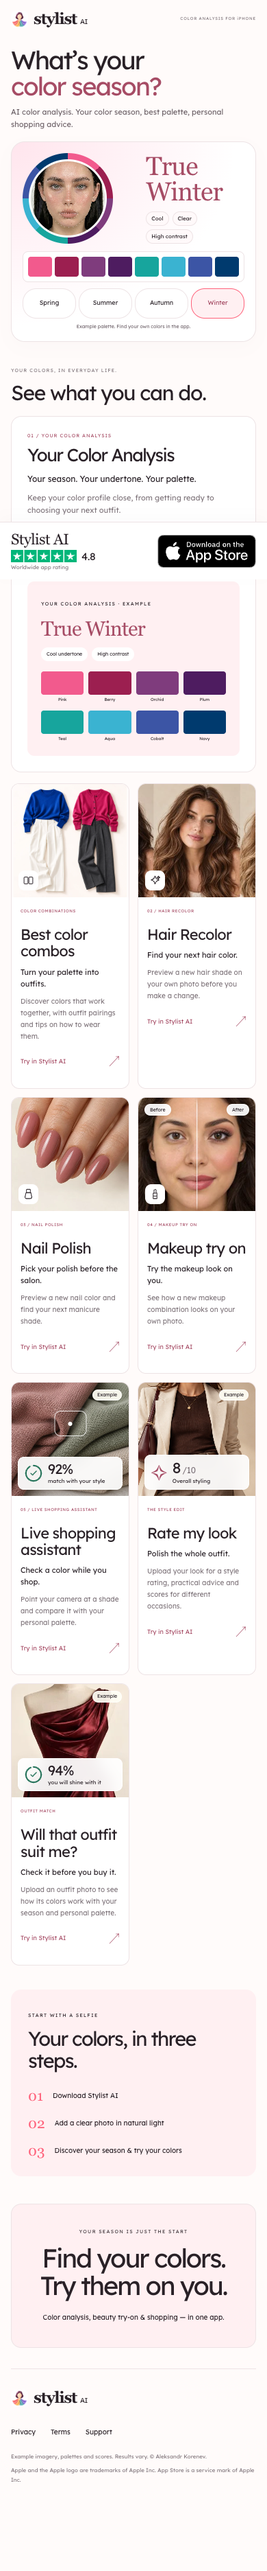
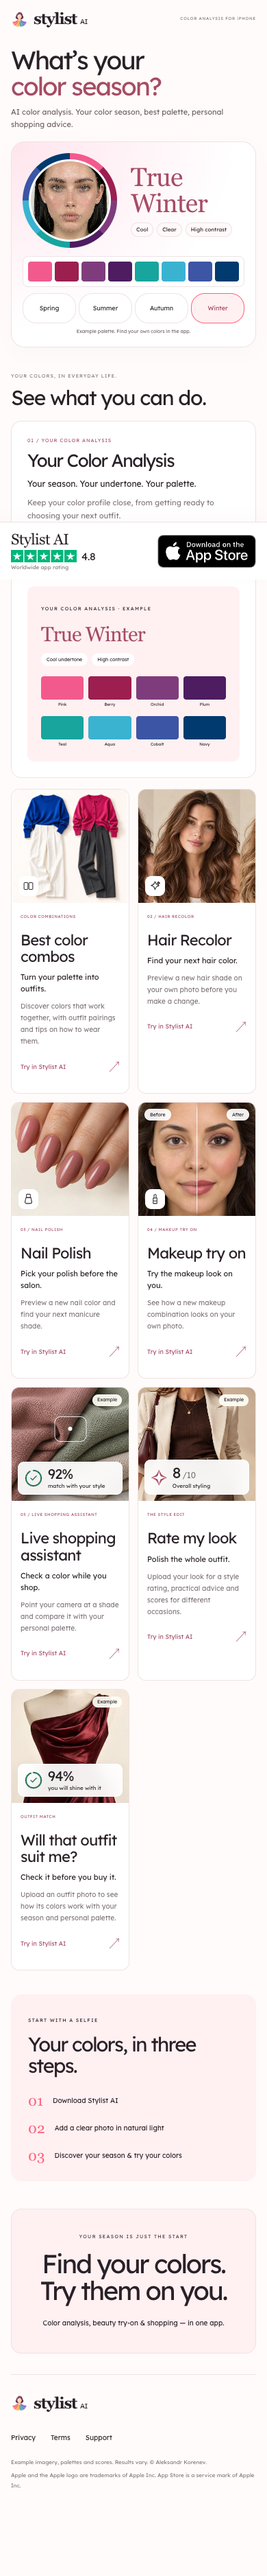
Fix iPhone portrait growth during browser toolbar resizing

diff --git a/stylist_ai/index.html b/stylist_ai/index.html
@@ -1,3 +1,3 @@
 <!doctype html><html lang="en"><head>
-<meta charset="utf-8"><meta name="viewport" content="width=device-width,initial-scale=1,viewport-fit=cover"><meta name="theme-color" content="#FFFBFA"><title>Find your color season — Stylist AI</title><meta name="description" content="Discover your color season and palette. Try hair and makeup looks, recolor nails, and take your palette shopping with Stylist AI for iPhone."><meta property="og:title" content="Your season. Your palette. Stylist AI."><meta property="og:description" content="Your Color Analysis, color combos, beauty tools, outfit advice & live shopping. Find your colors with Stylist AI."><meta property="og:type" content="website"><meta property="og:image" content="https://bestme.mobi/stylist_ai/landing/v2/assets/social-spectrum.jpg"><link rel="icon" href="/stylist_ai/landing/v2/assets/icon.png"><link rel="stylesheet" href="/stylist_ai/landing/v2/styles.css?v=2"><script src="/stylist_ai/landing/v2/app.js?v=3" defer></script><link rel="stylesheet" href="/stylist_ai/landing/v2/04-season-spectrum/spectrum.css?v=10"><link rel="canonical" href="https://bestme.mobi/stylist_ai/"><meta property="og:url" content="https://bestme.mobi/stylist_ai/"></head>
+<meta charset="utf-8"><meta name="viewport" content="width=device-width,initial-scale=1,viewport-fit=cover"><meta name="theme-color" content="#FFFBFA"><title>Find your color season — Stylist AI</title><meta name="description" content="Discover your color season and palette. Try hair and makeup looks, recolor nails, and take your palette shopping with Stylist AI for iPhone."><meta property="og:title" content="Your season. Your palette. Stylist AI."><meta property="og:description" content="Your Color Analysis, color combos, beauty tools, outfit advice & live shopping. Find your colors with Stylist AI."><meta property="og:type" content="website"><meta property="og:image" content="https://bestme.mobi/stylist_ai/landing/v2/assets/social-spectrum.jpg"><link rel="icon" href="/stylist_ai/landing/v2/assets/icon.png"><link rel="stylesheet" href="/stylist_ai/landing/v2/styles.css?v=2"><script src="/stylist_ai/landing/v2/app.js?v=3" defer></script><link rel="stylesheet" href="/stylist_ai/landing/v2/04-season-spectrum/spectrum.css?v=11"><link rel="canonical" href="https://bestme.mobi/stylist_ai/"><meta property="og:url" content="https://bestme.mobi/stylist_ai/"></head>
 <body class="spectrum" data-variant="04-season-spectrum" id="top"><a class="skip" href="#main">Skip to content</a><header class="site-header container"><a class="brand" href="#top" aria-label="Stylist AI home"><img src="/stylist_ai/landing/v2/assets/icon.png" width="28" height="28" alt=""><span>stylist <b>AI</b></span></a><span class="header-caption">COLOR ANALYSIS FOR iPHONE</span></header><main id="main"><section class="hero container" aria-label="Discover your color season"><div class="hero-intro"><h1>What’s your<br><em>color season?</em></h1><p>AI color analysis. Your color season, best palette, personal shopping advice.</p></div><div class="hero-proof"><div class="result-card"><div class="spectrum-pair"><div class="color-halo"><div class="face-photo"><img class="portrait" src="/stylist_ai/landing/v2/assets/winter-model.jpg" width="834" height="1482" alt="Stylist AI ad model with subtle glowing facial landmark dots" fetchpriority="high"><img class="mesh" src="/stylist_ai/landing/v2/assets/winter-landmarks.svg" width="834" height="1482" alt="" aria-hidden="true"></div></div><div class="season-result"><strong data-season-result>True Winter</strong><p class="traits"><span>Cool</span><span>Clear</span><span>High contrast</span></p></div></div><div class="palette hero-palette" data-first-palette aria-label="Sample True Winter color palette"><div class="color" style="--color:#F25A8D" title="Pink"><i></i></div><div class="color" style="--color:#9C1F50" title="Berry"><i></i></div><div class="color" style="--color:#7F3C7D" title="Orchid"><i></i></div><div class="color" style="--color:#4E1C60" title="Plum"><i></i></div><div class="color" style="--color:#17A59D" title="Teal"><i></i></div><div class="color" style="--color:#3AB3D1" title="Aqua"><i></i></div><div class="color" style="--color:#3C55A5" title="Cobalt"><i></i></div><div class="color" style="--color:#003A6E" title="Navy"><i></i></div></div><div class="season-tabs" role="group" aria-label="Preview example seasonal palettes"><button type="button" data-season="spring" aria-pressed="false">Spring</button><button type="button" data-season="summer" aria-pressed="false">Summer</button><button type="button" data-season="autumn" aria-pressed="false">Autumn</button><button type="button" data-season="winter" aria-pressed="true">Winter</button></div><span class="sample-disclaimer">Example palette. Find your own colors in the app.</span></div></div></section><section class="features container" id="features"><div class="section-heading"><span class="micro">YOUR COLORS, IN EVERYDAY LIFE.</span><h2>See what you can do.</h2></div><article id="passport" class="passport-feature" data-feature="passport"><div class="passport-feature-copy"><p class="number">01 / YOUR COLOR ANALYSIS</p><h3>Your Color Analysis</h3><p class="benefit">Your season. Your undertone. Your palette.</p><p>Keep your color profile close, from getting ready to choosing your next outfit.</p><ul><li>Your seasonal color type</li><li>Your personal palette</li><li>Color guidance for your look</li></ul></div><div class="passport-feature-art"><span class="micro">YOUR COLOR ANALYSIS · EXAMPLE</span><strong>True Winter</strong><div class="attribute-row"><span>Cool undertone</span><span>High contrast</span></div><div class="palette " aria-label="Sample True Winter color palette"><div class="color" style="--color:#F25A8D" title="Pink"><i></i><span>Pink</span></div><div class="color" style="--color:#9C1F50" title="Berry"><i></i><span>Berry</span></div><div class="color" style="--color:#7F3C7D" title="Orchid"><i></i><span>Orchid</span></div><div class="color" style="--color:#4E1C60" title="Plum"><i></i><span>Plum</span></div><div class="color" style="--color:#17A59D" title="Teal"><i></i><span>Teal</span></div><div class="color" style="--color:#3AB3D1" title="Aqua"><i></i><span>Aqua</span></div><div class="color" style="--color:#3C55A5" title="Cobalt"><i></i><span>Cobalt</span></div><div class="color" style="--color:#003A6E" title="Navy"><i></i><span>Navy</span></div></div></div></article><div class="feature-grid"><article class="feature-card" id="combos" data-feature="combos"><div class="feature-image"><img src="/stylist_ai/landing/v2/assets/color-combos-ai.webp" width="960" height="960" loading="lazy" alt="Cobalt blue with icy white and raspberry pink with charcoal: two coordinated outfit color pairings"><span class="feature-image-icon"><svg viewBox="0 0 24 24" fill="none" stroke="currentColor" stroke-width="1.4" stroke-linecap="round" stroke-linejoin="round" aria-hidden="true"><rect x="3" y="5" width="8" height="14" rx="2"/><rect x="13" y="5" width="8" height="14" rx="2"/></svg></span></div><div class="feature-copy"><p class="number">COLOR COMBINATIONS</p><h3>Best color combos</h3><p class="benefit">Turn your palette into outfits.</p><p>Discover colors that work together, with outfit pairings and tips on how to wear them.</p><a href="https://apps.apple.com/app/id6739435502" target="_top" data-download data-placement="combos">Try in Stylist AI <span aria-hidden="true">↗</span></a></div></article><article class="feature-card" id="try-on" data-feature="try-on"><div class="feature-image"><img src="/stylist_ai/landing/v2/assets/hair.webp" width="720" height="900" loading="lazy" alt="Hair Recolor example"><span class="feature-image-icon"><svg viewBox="0 0 24 24" fill="none" stroke="currentColor" stroke-width="1.5" stroke-linecap="round" stroke-linejoin="round" aria-hidden="true"><path d="m12 3 2.6 5.4L20 11l-5.4 2.6L12 19l-2.6-5.4L4 11l5.4-2.6Z"/><path d="m19 3 1 2 2 1-2 1-1 2-1-2-2-1 2-1Z"/></svg></span></div><div class="feature-copy"><p class="number">02 / HAIR RECOLOR</p><h3>Hair Recolor</h3><p class="benefit">Find your next hair color.</p><p>Preview a new hair shade on your own photo before you make a change.</p><a href="https://apps.apple.com/app/id6739435502" target="_top" data-download data-placement="try-on">Try in Stylist AI <span aria-hidden="true">↗</span></a></div></article><article class="feature-card" id="nails" data-feature="nails"><div class="feature-image"><img src="/stylist_ai/landing/v2/assets/nails.webp" width="720" height="900" loading="lazy" alt="Nail Polish example"><span class="feature-image-icon"><svg viewBox="0 0 24 24" fill="none" stroke="currentColor" stroke-width="1.5" stroke-linecap="round" stroke-linejoin="round" aria-hidden="true"><rect x="8" y="2" width="8" height="7" rx="1"/><path d="M7 9h10l2 9a3 3 0 0 1-3 3H8a3 3 0 0 1-3-3Z"/></svg></span></div><div class="feature-copy"><p class="number">03 / NAIL POLISH</p><h3>Nail Polish</h3><p class="benefit">Pick your polish before the salon.</p><p>Preview a new nail color and find your next manicure shade.</p><a href="https://apps.apple.com/app/id6739435502" target="_top" data-download data-placement="nails">Try in Stylist AI <span aria-hidden="true">↗</span></a></div></article><article class="feature-card" id="makeup" data-feature="makeup"><div class="feature-image"><img src="/stylist_ai/landing/v2/assets/makeup-try-on.webp" width="720" height="900" loading="lazy" alt="Before and after makeup try on example"><span class="feature-image-icon"><svg viewBox="0 0 24 24" fill="none" stroke="currentColor" stroke-width="1.5" stroke-linecap="round" stroke-linejoin="round" aria-hidden="true"><path d="M8 10h8v11H8zM10 10V4c0-1 4-3 4-1v7M8 16h8"/></svg></span><span class="makeup-divider" aria-hidden="true"></span><span class="makeup-label before">Before</span><span class="makeup-label after">After</span></div><div class="feature-copy"><p class="number">04 / MAKEUP TRY ON</p><h3>Makeup try on</h3><p class="benefit">Try the makeup look on you.</p><p>See how a new makeup combination looks on your own photo.</p><a href="https://apps.apple.com/app/id6739435502" target="_top" data-download data-placement="makeup">Try in Stylist AI <span aria-hidden="true">↗</span></a></div></article><article class="feature-card" id="shopping" data-feature="shopping"><div class="feature-image"><img src="/stylist_ai/landing/v2/assets/shopping-fabric.jpg" width="720" height="900" loading="lazy" alt="Live shopping assistant example"><span class="shopping-scan" aria-hidden="true"><i></i></span><span class="art-example">Example</span><div class="match-overlay"><svg viewBox="0 0 40 40" aria-hidden="true"><circle cx="20" cy="20" r="16" fill="none" stroke="#e8efeb" stroke-width="3"/><circle cx="20" cy="20" r="16" fill="none" stroke="#28755c" stroke-width="3" stroke-linecap="round" stroke-dasharray="92 100" pathLength="100" transform="rotate(-90 20 20)"/><path d="m14 20 4 4 8-9" fill="none" stroke="#28755c" stroke-width="2" stroke-linecap="round" stroke-linejoin="round"/></svg><span><strong>92%</strong><small>match with your style</small></span></div></div><div class="feature-copy"><p class="number">05 / LIVE SHOPPING ASSISTANT</p><h3>Live shopping assistant</h3><p class="benefit">Check a color while you shop.</p><p>Point your camera at a shade and compare it with your personal palette.</p><a href="https://apps.apple.com/app/id6739435502" target="_top" data-download data-placement="shopping">Try in Stylist AI <span aria-hidden="true">↗</span></a></div></article><article class="feature-card" id="rate-look" data-feature="rate-look"><div class="feature-image"><img src="/stylist_ai/landing/v2/assets/rate-look.jpg" loading="lazy" alt="Rate my look preview"><span class="art-example">Example</span><div class="look-rating"><span class="rating-star" aria-hidden="true">✧</span><span><strong>8<small>/10</small></strong><small>Overall styling</small></span></div></div><div class="feature-copy"><p class="number">THE STYLE EDIT</p><h3>Rate my look</h3><p class="benefit">Polish the whole outfit.</p><p>Upload your look for a style rating, practical advice and scores for different occasions.</p><a href="https://apps.apple.com/app/id6739435502" target="_top" data-download data-placement="rate-look">Try in Stylist AI <span aria-hidden="true">↗</span></a></div></article><article class="feature-card" id="outfit-match" data-feature="outfit-match"><div class="feature-image"><img src="/stylist_ai/landing/v2/assets/outfit.webp" loading="lazy" alt="Will that outfit suit me? preview"><span class="art-example">Example</span><div class="match-overlay"><svg viewBox="0 0 40 40" aria-hidden="true"><circle cx="20" cy="20" r="16" fill="none" stroke="#e8efeb" stroke-width="3"/><circle cx="20" cy="20" r="16" fill="none" stroke="#28755c" stroke-width="3" stroke-linecap="round" stroke-dasharray="94 100" pathLength="100" transform="rotate(-90 20 20)"/><path d="m14 20 4 4 8-9" fill="none" stroke="#28755c" stroke-width="2" stroke-linecap="round" stroke-linejoin="round"/></svg><span><strong>94%</strong><small>you will shine with it</small></span></div></div><div class="feature-copy"><p class="number">OUTFIT MATCH</p><h3>Will that outfit suit me?</h3><p class="benefit">Check it before you buy it.</p><p>Upload an outfit photo to see how its colors work with your season and personal palette.</p><a href="https://apps.apple.com/app/id6739435502" target="_top" data-download data-placement="outfit-match">Try in Stylist AI <span aria-hidden="true">↗</span></a></div></article></div></section><section class="how container"><div><span class="micro">START WITH A SELFIE</span><h2>Your colors, in three steps.</h2></div><ol><li><b>01</b><span>Download Stylist AI</span></li><li><b>02</b><span>Add a clear photo in natural light</span></li><li><b>03</b><span>Discover your season & try your colors</span></li></ol></section><section class="closing container"><p class="micro">YOUR SEASON IS JUST THE START</p><h2>Find your colors.<br>Try them on you.</h2><p>Color analysis, beauty try-on & shopping — in one app.</p></section></main><footer class="container"><a class="brand" href="#top" aria-label="Stylist AI home"><img src="/stylist_ai/landing/v2/assets/icon.png" width="28" height="28" alt=""><span>stylist <b>AI</b></span></a><div class="legal-links"><a href="https://bestme.mobi/stylist-ai-privacy-policy.html">Privacy</a><a href="https://bestme.mobi/stylist-ai-terms-of-use.html">Terms</a><a href="https://bestme.mobi/support.html">Support</a></div><p>Example imagery, palettes and scores. Results vary. © Aleksandr Korenev.</p><p>Apple and the Apple logo are trademarks of Apple Inc. App Store is a service mark of Apple Inc.</p></footer><aside class="download-dock" aria-label="Download Stylist AI"><div class="dock-inner"><div class="dock-copy"><strong>Stylist AI</strong><span class="dock-rating" aria-label="4.8 out of 5"><img class="dock-stars" src="/stylist_ai/landing/v2/assets/rating-stars.svg" width="96" height="18" alt="" aria-hidden="true"><b class="dock-score">4.8</b></span><span class="dock-rating-label">Worldwide app rating</span></div><a class="app-store" href="https://apps.apple.com/app/id6739435502" target="_top" data-download data-placement="sticky" aria-label="Download Stylist AI on the App Store"><img src="/stylist_ai/landing/v2/assets/app-store.svg" width="150" height="50" alt="Download on the App Store"></a></div></aside></body></html>

diff --git a/stylist_ai/landing/v2/04-season-spectrum/index.html b/stylist_ai/landing/v2/04-season-spectrum/index.html
@@ -1,3 +1,3 @@
 <!doctype html><html lang="en"><head>
-<meta charset="utf-8"><meta name="viewport" content="width=device-width,initial-scale=1,viewport-fit=cover"><meta name="theme-color" content="#FFFBFA"><title>Find your color season — Stylist AI</title><meta name="description" content="Discover your color season and palette. Try hair and makeup looks, recolor nails, and take your palette shopping with Stylist AI for iPhone."><meta property="og:title" content="Your season. Your palette. Stylist AI."><meta property="og:description" content="Your Color Analysis, color combos, beauty tools, outfit advice & live shopping. Find your colors with Stylist AI."><meta property="og:type" content="website"><meta property="og:image" content="https://bestme.mobi/stylist_ai/landing/v2/assets/social-spectrum.jpg"><link rel="icon" href="../assets/icon.png"><link rel="stylesheet" href="../styles.css?v=2"><script src="../app.js?v=3" defer></script><link rel="stylesheet" href="./spectrum.css?v=10"></head>
+<meta charset="utf-8"><meta name="viewport" content="width=device-width,initial-scale=1,viewport-fit=cover"><meta name="theme-color" content="#FFFBFA"><title>Find your color season — Stylist AI</title><meta name="description" content="Discover your color season and palette. Try hair and makeup looks, recolor nails, and take your palette shopping with Stylist AI for iPhone."><meta property="og:title" content="Your season. Your palette. Stylist AI."><meta property="og:description" content="Your Color Analysis, color combos, beauty tools, outfit advice & live shopping. Find your colors with Stylist AI."><meta property="og:type" content="website"><meta property="og:image" content="https://bestme.mobi/stylist_ai/landing/v2/assets/social-spectrum.jpg"><link rel="icon" href="../assets/icon.png"><link rel="stylesheet" href="../styles.css?v=2"><script src="../app.js?v=3" defer></script><link rel="stylesheet" href="./spectrum.css?v=11"></head>
 <body class="spectrum" data-variant="04-season-spectrum" id="top"><a class="skip" href="#main">Skip to content</a><header class="site-header container"><a class="brand" href="#top" aria-label="Stylist AI home"><img src="../assets/icon.png" width="28" height="28" alt=""><span>stylist <b>AI</b></span></a><span class="header-caption">COLOR ANALYSIS FOR iPHONE</span></header><main id="main"><section class="hero container" aria-label="Discover your color season"><div class="hero-intro"><h1>What’s your<br><em>color season?</em></h1><p>AI color analysis. Your color season, best palette, personal shopping advice.</p></div><div class="hero-proof"><div class="result-card"><div class="spectrum-pair"><div class="color-halo"><div class="face-photo"><img class="portrait" src="../assets/winter-model.jpg" width="834" height="1482" alt="Stylist AI ad model with subtle glowing facial landmark dots" fetchpriority="high"><img class="mesh" src="../assets/winter-landmarks.svg" width="834" height="1482" alt="" aria-hidden="true"></div></div><div class="season-result"><strong data-season-result>True Winter</strong><p class="traits"><span>Cool</span><span>Clear</span><span>High contrast</span></p></div></div><div class="palette hero-palette" data-first-palette aria-label="Sample True Winter color palette"><div class="color" style="--color:#F25A8D" title="Pink"><i></i></div><div class="color" style="--color:#9C1F50" title="Berry"><i></i></div><div class="color" style="--color:#7F3C7D" title="Orchid"><i></i></div><div class="color" style="--color:#4E1C60" title="Plum"><i></i></div><div class="color" style="--color:#17A59D" title="Teal"><i></i></div><div class="color" style="--color:#3AB3D1" title="Aqua"><i></i></div><div class="color" style="--color:#3C55A5" title="Cobalt"><i></i></div><div class="color" style="--color:#003A6E" title="Navy"><i></i></div></div><div class="season-tabs" role="group" aria-label="Preview example seasonal palettes"><button type="button" data-season="spring" aria-pressed="false">Spring</button><button type="button" data-season="summer" aria-pressed="false">Summer</button><button type="button" data-season="autumn" aria-pressed="false">Autumn</button><button type="button" data-season="winter" aria-pressed="true">Winter</button></div><span class="sample-disclaimer">Example palette. Find your own colors in the app.</span></div></div></section><section class="features container" id="features"><div class="section-heading"><span class="micro">YOUR COLORS, IN EVERYDAY LIFE.</span><h2>See what you can do.</h2></div><article id="passport" class="passport-feature" data-feature="passport"><div class="passport-feature-copy"><p class="number">01 / YOUR COLOR ANALYSIS</p><h3>Your Color Analysis</h3><p class="benefit">Your season. Your undertone. Your palette.</p><p>Keep your color profile close, from getting ready to choosing your next outfit.</p><ul><li>Your seasonal color type</li><li>Your personal palette</li><li>Color guidance for your look</li></ul></div><div class="passport-feature-art"><span class="micro">YOUR COLOR ANALYSIS · EXAMPLE</span><strong>True Winter</strong><div class="attribute-row"><span>Cool undertone</span><span>High contrast</span></div><div class="palette " aria-label="Sample True Winter color palette"><div class="color" style="--color:#F25A8D" title="Pink"><i></i><span>Pink</span></div><div class="color" style="--color:#9C1F50" title="Berry"><i></i><span>Berry</span></div><div class="color" style="--color:#7F3C7D" title="Orchid"><i></i><span>Orchid</span></div><div class="color" style="--color:#4E1C60" title="Plum"><i></i><span>Plum</span></div><div class="color" style="--color:#17A59D" title="Teal"><i></i><span>Teal</span></div><div class="color" style="--color:#3AB3D1" title="Aqua"><i></i><span>Aqua</span></div><div class="color" style="--color:#3C55A5" title="Cobalt"><i></i><span>Cobalt</span></div><div class="color" style="--color:#003A6E" title="Navy"><i></i><span>Navy</span></div></div></div></article><div class="feature-grid"><article class="feature-card" id="combos" data-feature="combos"><div class="feature-image"><img src="../assets/color-combos-ai.webp" width="960" height="960" loading="lazy" alt="Cobalt blue with icy white and raspberry pink with charcoal: two coordinated outfit color pairings"><span class="feature-image-icon"><svg viewBox="0 0 24 24" fill="none" stroke="currentColor" stroke-width="1.4" stroke-linecap="round" stroke-linejoin="round" aria-hidden="true"><rect x="3" y="5" width="8" height="14" rx="2"/><rect x="13" y="5" width="8" height="14" rx="2"/></svg></span></div><div class="feature-copy"><p class="number">COLOR COMBINATIONS</p><h3>Best color combos</h3><p class="benefit">Turn your palette into outfits.</p><p>Discover colors that work together, with outfit pairings and tips on how to wear them.</p><a href="https://apps.apple.com/app/id6739435502" target="_top" data-download data-placement="combos">Try in Stylist AI <span aria-hidden="true">↗</span></a></div></article><article class="feature-card" id="try-on" data-feature="try-on"><div class="feature-image"><img src="../assets/hair.webp" width="720" height="900" loading="lazy" alt="Hair Recolor example"><span class="feature-image-icon"><svg viewBox="0 0 24 24" fill="none" stroke="currentColor" stroke-width="1.5" stroke-linecap="round" stroke-linejoin="round" aria-hidden="true"><path d="m12 3 2.6 5.4L20 11l-5.4 2.6L12 19l-2.6-5.4L4 11l5.4-2.6Z"/><path d="m19 3 1 2 2 1-2 1-1 2-1-2-2-1 2-1Z"/></svg></span></div><div class="feature-copy"><p class="number">02 / HAIR RECOLOR</p><h3>Hair Recolor</h3><p class="benefit">Find your next hair color.</p><p>Preview a new hair shade on your own photo before you make a change.</p><a href="https://apps.apple.com/app/id6739435502" target="_top" data-download data-placement="try-on">Try in Stylist AI <span aria-hidden="true">↗</span></a></div></article><article class="feature-card" id="nails" data-feature="nails"><div class="feature-image"><img src="../assets/nails.webp" width="720" height="900" loading="lazy" alt="Nail Polish example"><span class="feature-image-icon"><svg viewBox="0 0 24 24" fill="none" stroke="currentColor" stroke-width="1.5" stroke-linecap="round" stroke-linejoin="round" aria-hidden="true"><rect x="8" y="2" width="8" height="7" rx="1"/><path d="M7 9h10l2 9a3 3 0 0 1-3 3H8a3 3 0 0 1-3-3Z"/></svg></span></div><div class="feature-copy"><p class="number">03 / NAIL POLISH</p><h3>Nail Polish</h3><p class="benefit">Pick your polish before the salon.</p><p>Preview a new nail color and find your next manicure shade.</p><a href="https://apps.apple.com/app/id6739435502" target="_top" data-download data-placement="nails">Try in Stylist AI <span aria-hidden="true">↗</span></a></div></article><article class="feature-card" id="makeup" data-feature="makeup"><div class="feature-image"><img src="../assets/makeup-try-on.webp" width="720" height="900" loading="lazy" alt="Before and after makeup try on example"><span class="feature-image-icon"><svg viewBox="0 0 24 24" fill="none" stroke="currentColor" stroke-width="1.5" stroke-linecap="round" stroke-linejoin="round" aria-hidden="true"><path d="M8 10h8v11H8zM10 10V4c0-1 4-3 4-1v7M8 16h8"/></svg></span><span class="makeup-divider" aria-hidden="true"></span><span class="makeup-label before">Before</span><span class="makeup-label after">After</span></div><div class="feature-copy"><p class="number">04 / MAKEUP TRY ON</p><h3>Makeup try on</h3><p class="benefit">Try the makeup look on you.</p><p>See how a new makeup combination looks on your own photo.</p><a href="https://apps.apple.com/app/id6739435502" target="_top" data-download data-placement="makeup">Try in Stylist AI <span aria-hidden="true">↗</span></a></div></article><article class="feature-card" id="shopping" data-feature="shopping"><div class="feature-image"><img src="../assets/shopping-fabric.jpg" width="720" height="900" loading="lazy" alt="Live shopping assistant example"><span class="shopping-scan" aria-hidden="true"><i></i></span><span class="art-example">Example</span><div class="match-overlay"><svg viewBox="0 0 40 40" aria-hidden="true"><circle cx="20" cy="20" r="16" fill="none" stroke="#e8efeb" stroke-width="3"/><circle cx="20" cy="20" r="16" fill="none" stroke="#28755c" stroke-width="3" stroke-linecap="round" stroke-dasharray="92 100" pathLength="100" transform="rotate(-90 20 20)"/><path d="m14 20 4 4 8-9" fill="none" stroke="#28755c" stroke-width="2" stroke-linecap="round" stroke-linejoin="round"/></svg><span><strong>92%</strong><small>match with your style</small></span></div></div><div class="feature-copy"><p class="number">05 / LIVE SHOPPING ASSISTANT</p><h3>Live shopping assistant</h3><p class="benefit">Check a color while you shop.</p><p>Point your camera at a shade and compare it with your personal palette.</p><a href="https://apps.apple.com/app/id6739435502" target="_top" data-download data-placement="shopping">Try in Stylist AI <span aria-hidden="true">↗</span></a></div></article><article class="feature-card" id="rate-look" data-feature="rate-look"><div class="feature-image"><img src="../assets/rate-look.jpg" loading="lazy" alt="Rate my look preview"><span class="art-example">Example</span><div class="look-rating"><span class="rating-star" aria-hidden="true">✧</span><span><strong>8<small>/10</small></strong><small>Overall styling</small></span></div></div><div class="feature-copy"><p class="number">THE STYLE EDIT</p><h3>Rate my look</h3><p class="benefit">Polish the whole outfit.</p><p>Upload your look for a style rating, practical advice and scores for different occasions.</p><a href="https://apps.apple.com/app/id6739435502" target="_top" data-download data-placement="rate-look">Try in Stylist AI <span aria-hidden="true">↗</span></a></div></article><article class="feature-card" id="outfit-match" data-feature="outfit-match"><div class="feature-image"><img src="../assets/outfit.webp" loading="lazy" alt="Will that outfit suit me? preview"><span class="art-example">Example</span><div class="match-overlay"><svg viewBox="0 0 40 40" aria-hidden="true"><circle cx="20" cy="20" r="16" fill="none" stroke="#e8efeb" stroke-width="3"/><circle cx="20" cy="20" r="16" fill="none" stroke="#28755c" stroke-width="3" stroke-linecap="round" stroke-dasharray="94 100" pathLength="100" transform="rotate(-90 20 20)"/><path d="m14 20 4 4 8-9" fill="none" stroke="#28755c" stroke-width="2" stroke-linecap="round" stroke-linejoin="round"/></svg><span><strong>94%</strong><small>you will shine with it</small></span></div></div><div class="feature-copy"><p class="number">OUTFIT MATCH</p><h3>Will that outfit suit me?</h3><p class="benefit">Check it before you buy it.</p><p>Upload an outfit photo to see how its colors work with your season and personal palette.</p><a href="https://apps.apple.com/app/id6739435502" target="_top" data-download data-placement="outfit-match">Try in Stylist AI <span aria-hidden="true">↗</span></a></div></article></div></section><section class="how container"><div><span class="micro">START WITH A SELFIE</span><h2>Your colors, in three steps.</h2></div><ol><li><b>01</b><span>Download Stylist AI</span></li><li><b>02</b><span>Add a clear photo in natural light</span></li><li><b>03</b><span>Discover your season & try your colors</span></li></ol></section><section class="closing container"><p class="micro">YOUR SEASON IS JUST THE START</p><h2>Find your colors.<br>Try them on you.</h2><p>Color analysis, beauty try-on & shopping — in one app.</p></section></main><footer class="container"><a class="brand" href="#top" aria-label="Stylist AI home"><img src="../assets/icon.png" width="28" height="28" alt=""><span>stylist <b>AI</b></span></a><div class="legal-links"><a href="https://bestme.mobi/stylist-ai-privacy-policy.html">Privacy</a><a href="https://bestme.mobi/stylist-ai-terms-of-use.html">Terms</a><a href="https://bestme.mobi/support.html">Support</a></div><p>Example imagery, palettes and scores. Results vary. © Aleksandr Korenev.</p><p>Apple and the Apple logo are trademarks of Apple Inc. App Store is a service mark of Apple Inc.</p></footer><aside class="download-dock" aria-label="Download Stylist AI"><div class="dock-inner"><div class="dock-copy"><strong>Stylist AI</strong><span class="dock-rating" aria-label="4.8 out of 5"><img class="dock-stars" src="../assets/rating-stars.svg" width="96" height="18" alt="" aria-hidden="true"><b class="dock-score">4.8</b></span><span class="dock-rating-label">Worldwide app rating</span></div><a class="app-store" href="https://apps.apple.com/app/id6739435502" target="_top" data-download data-placement="sticky" aria-label="Download Stylist AI on the App Store"><img src="../assets/app-store.svg" width="150" height="50" alt="Download on the App Store"></a></div></aside></body></html>

diff --git a/stylist_ai/landing/v2/04-season-spectrum/spectrum.css b/stylist_ai/landing/v2/04-season-spectrum/spectrum.css
@@ -11,23 +11,30 @@
 .spectrum h1 em { color: #a64c65; }
 .spectrum .hero-intro > p { color: #6d6268; }
 .spectrum .result-card {
+  --portrait-size: clamp(130px, 17vw, 210px);
+  display: block;
+  height: auto;
   background: radial-gradient(ellipse at 0 0, #ffe5ed 0, transparent 65%), #fff;
   border: 1px solid var(--line);
   color: var(--ink);
   box-shadow: 0 8px 28px #4a263405;
 }
+.spectrum .spectrum-pair { display: grid; grid-template-columns: var(--portrait-size) minmax(0, 1fr); align-items: center; gap: 22px; flex: none; }
 .spectrum .color-halo {
   background: conic-gradient(#f25a8d 0deg 45deg, #9c1f50 45deg 90deg, #7f3c7d 90deg 135deg, #4e1c60 135deg 180deg, #17a59d 180deg 225deg, #3ab3d1 225deg 270deg, #3c55a5 270deg 315deg, #003a6e 315deg 360deg);
-  padding: 10px;
-  height: 100%;
-  width: auto;
+  position: relative;
+  padding: 0;
+  width: var(--portrait-size);
+  height: var(--portrait-size);
+  aspect-ratio: auto;
   justify-self: start;
-  max-width: 100%;
+  max-width: none;
+  max-height: none;
 }
-.spectrum .color-halo .face-photo { height: 100%; width: 100%; border-color: #fff; background: #f4f3ef; }
+.spectrum .color-halo .face-photo { position: absolute; inset: 10px; height: auto; width: auto; aspect-ratio: auto; border-color: #fff; background: #f4f3ef; }
 .spectrum .face-photo img { width: 100%; height: 100%; left: 0; top: 0; object-fit: cover; object-position: 50% 38%; }
 .spectrum .face-photo .mesh { opacity: .88; }
-.spectrum .season-result strong { color: #a64c65; font-size: 50px; line-height: .98; margin: 0 0 14px; }
+.spectrum .season-result strong { color: #a64c65; font-size: 50px; line-height: .98; margin: 0 0 14px; max-width: 3.8em; }
 .spectrum .traits { flex-wrap: wrap; gap: 6px; }
 .spectrum .traits span { border-color: var(--line); background: #fff9fa; font-size: 10px; padding: 4px 8px; }
 .spectrum .palette { grid-template-columns: repeat(8, minmax(0, 1fr)); }
@@ -71,9 +78,9 @@
 .spectrum #combos .feature-image img { object-fit: contain; }
 @media (max-width: 760px) {
   .spectrum .hero-intro > p { max-width: 355px; font-size: 11px; line-height: 1.6; }
-  .spectrum .result-card { height: 292px; }
-  .spectrum .color-halo { padding: 9px; }
-  .spectrum .spectrum-pair { gap: 15px; }
+  .spectrum .result-card { --portrait-size: clamp(96px, calc(60vw - 96px), 152px); }
+  .spectrum .color-halo .face-photo { inset: 9px; }
+  .spectrum .spectrum-pair { gap: 20px; }
   .spectrum .season-result strong { font-size: 38px; margin: 0 0 10px; }
   .spectrum .traits { gap: 5px; }
   .spectrum .traits span { font-size: 8px; padding: 4px 7px; }
@@ -102,14 +109,12 @@
 }
 @media (max-width: 760px) and (max-height: 700px) {
   .spectrum .hero-intro > p { font-size: 10px; margin-top: 7px; }
-  .spectrum .result-card { height: 245px; }
   .spectrum .season-result strong { font-size: 32px; margin-bottom: 8px; }
   .spectrum .traits span { font-size: 7px; padding: 3px 6px; }
   .spectrum .sample-disclaimer { font-size: 6px; }
 }
 @media (max-width: 760px) and (max-height: 600px) {
   .spectrum .hero-intro > p { display: block; font-size: 9px; line-height: 1.5; margin-top: 6px; }
-  .spectrum .result-card { height: 224px; }
   .spectrum .season-result strong { font-size: 28px; margin-bottom: 7px; }
   .spectrum .traits { gap: 4px; }
   .spectrum .traits span { font-size: 6px; padding: 2px 5px; }
